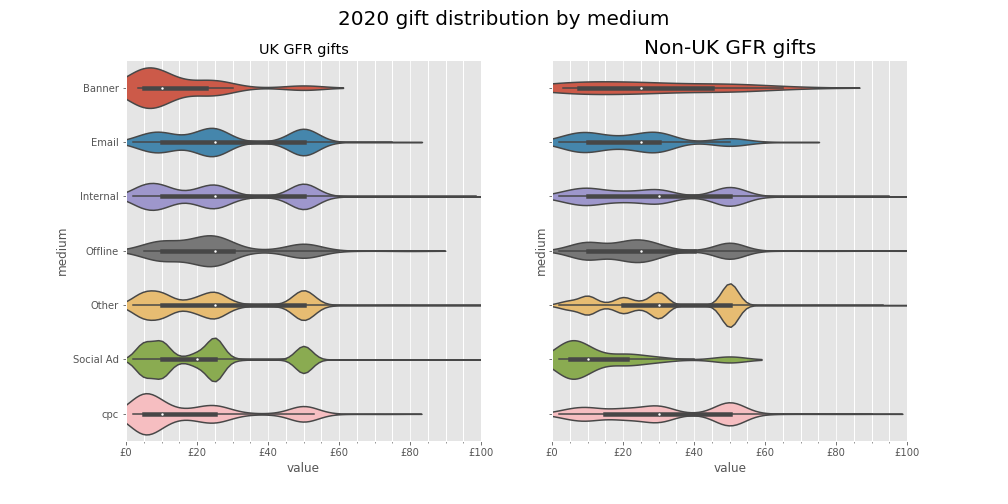
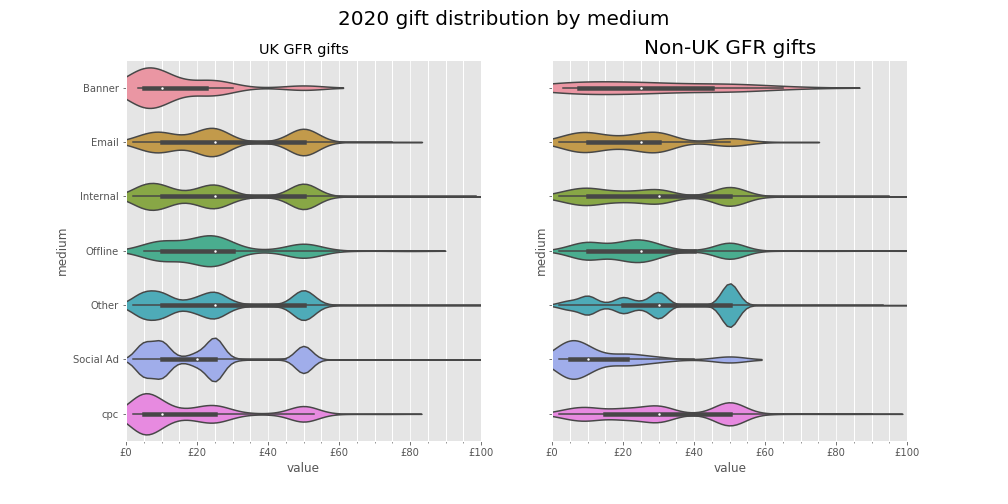
Added split violinplot for direct comparison

diff --git a/investigation_plot_avg.py b/investigation_plot_avg.py
@@ -11,6 +11,8 @@ import numpy as np
 import matplotlib.pyplot as plt; plt.style.use('ggplot')
 import matplotlib.ticker as mtick
 
+# Munge SGLBL
+
 sglbl = pd.read_csv('RawData\\old_sglbl.csv')
 
 for col in sglbl.columns:
@@ -29,24 +31,27 @@ sglbl['month'] = pd.DatetimeIndex(sglbl["date"]).strftime('%Y-%m')
 sglbl.set_index('date', inplace=True)
 sglbl.isna().sum()  # lots of NA in Medium
 sglbl['medium'].fillna('Other', inplace=True)
-
 sglbl.to_csv('AmendedData\\sglbl.csv')
 
-ukgfr = sglbl[sglbl['sorp'].str.contains('P6269')]
+# Why is email so high for UKGFR? Investigate using creative
 
-nonsmall = ukgfr.pivot_table(values='value', index='medium',
+# Make GFR and non-GFR DFs
+
+sglbl['ukgfr'] = sglbl['sorp'].str.contains('P6269')
+
+nonsmall = sglbl.pivot_table(values='value', index='medium',
                              aggfunc=np.count_nonzero)
 nonsmall = nonsmall[nonsmall['value'] > 50].index
 
-ukgfr_nonsmall = ukgfr[ukgfr['medium'].isin(nonsmall)]
-ukgfr_nonsmall = ukgfr_nonsmall[ukgfr_nonsmall['value'] < 100]
+sg_nonsmall = sglbl[sglbl['medium'].isin(nonsmall)]
+sg_nonsmall = sg_nonsmall[sg_nonsmall['value'] < 100]
 
-nonuk_nonsmall = sglbl[~sglbl['sorp'].str.contains('P6269')]
-nonuk_nonsmall = nonuk_nonsmall[nonuk_nonsmall['medium'].isin(nonsmall)]
-nonuk_nonsmall = nonuk_nonsmall[nonuk_nonsmall['value'] < 100]
+ukgfr_nonsmall = sg_nonsmall[sg_nonsmall['ukgfr'] == True]
+nonuk_nonsmall = sg_nonsmall[sg_nonsmall['ukgfr'] == False]
 
-
-#Plot distribution
+# =============================================================================
+# Two-facet plot of UK GFR gift distribution, vs not
+# =============================================================================
 
 fig, axs = plt.subplots(1, 2, figsize=(14, 7), sharey=True)
 
@@ -69,3 +74,21 @@ axs[1].grid(b=True, which='minor', color='w', axis='x', linewidth=1.0)
 axs[1].set_title('Non-UK GFR gifts', fontsize=20)
 axs[1].set_xlim((0, 100))
 plt.savefig('Outputs\\2020_gift_values_by_channel.png')
+
+# =============================================================================
+# One facet version, 
+# =============================================================================
+
+colors = ["#1d1a1c", "#04923e"]
+sns.set_palette(sns.color_palette(colors))
+
+fig, ax = plt.subplots(1, 1, figsize=(14, 7))
+sns.violinplot(x='value', y='medium', hue='ukgfr', split=True,
+               data=sg_nonsmall, ax=ax, order=nonsmall, cut=0)
+currfmt = mtick.StrMethodFormatter('£{x:,.0f}')
+ax.xaxis.set_major_formatter(currfmt)
+ax.get_xaxis().set_minor_locator(mtick.AutoMinorLocator())
+ax.grid(b=True, which='minor', color='w', axis='x', linewidth=1.0)
+ax.set_title('2020 gifts by medium', fontsize=20)
+ax.set_xlim((0, 100))
+plt.savefig('Outputs\\2020_gift_values_by_channel_split.png')
